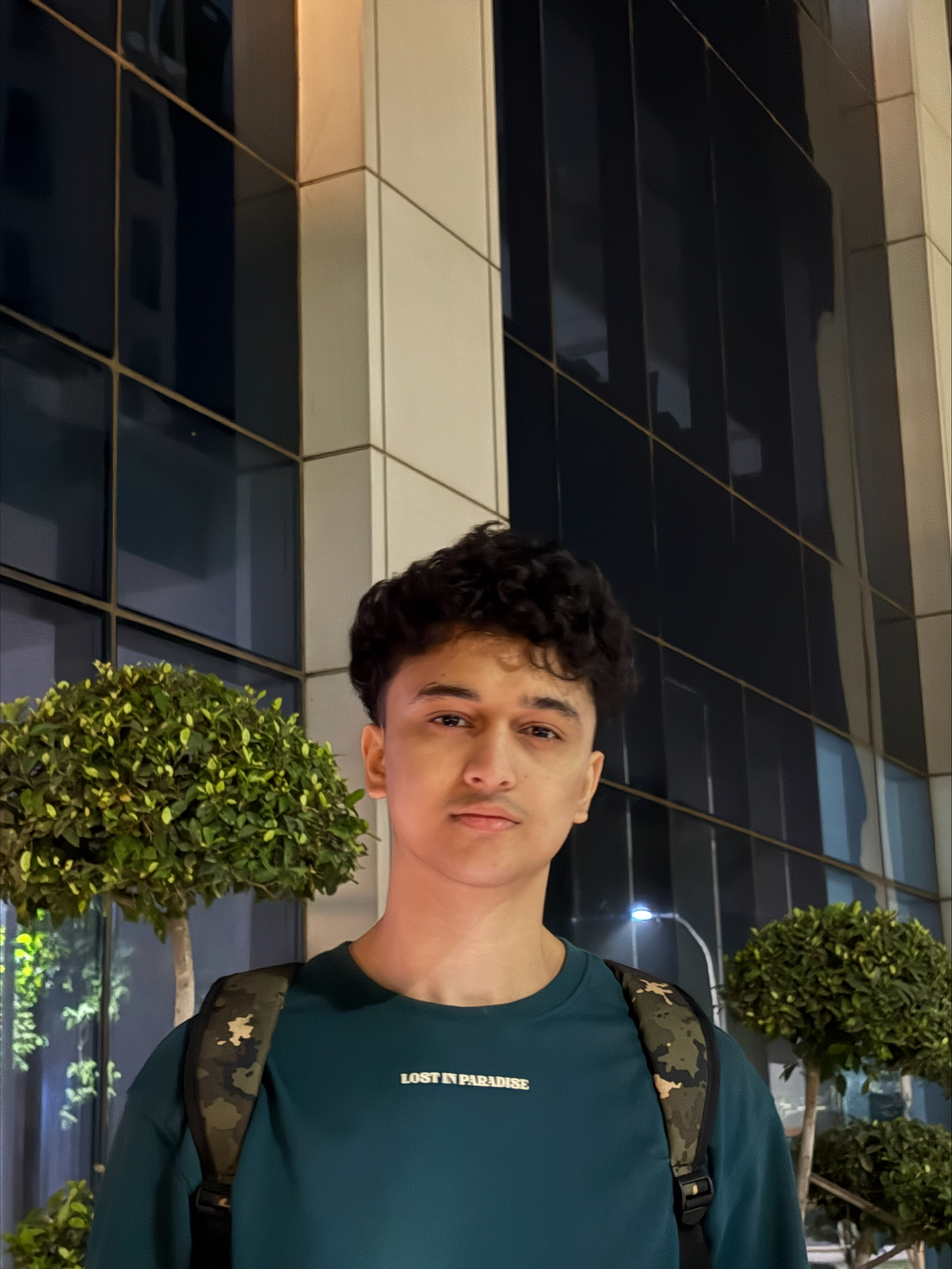
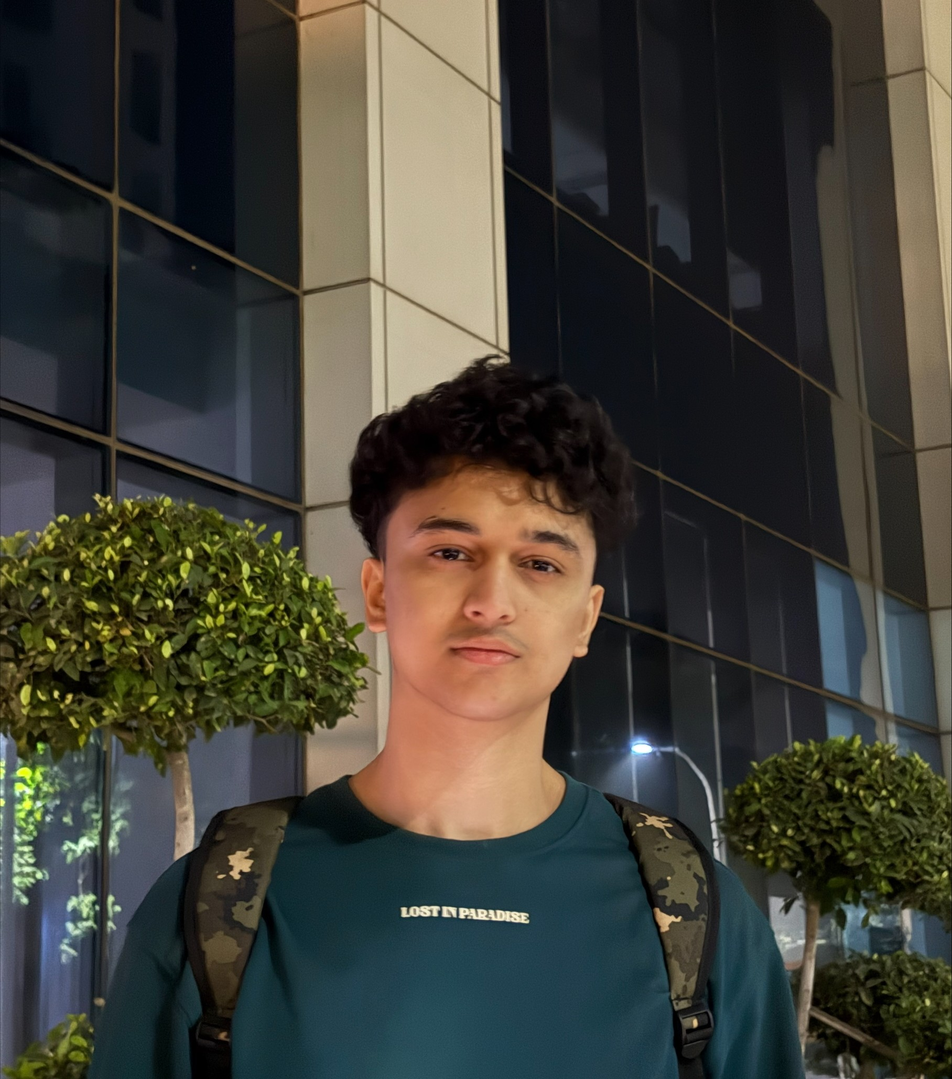
asd

diff --git a/src/App.tsx b/src/App.tsx
@@ -194,7 +194,7 @@ function App() {
           <motion.img
             src="src/components/photu.jpeg"
             alt="Profile"
-            className="w-48 h-48 rounded-full mb-12 object-cover"
+            className="w-52 h-52 rounded-full mb-12 object-cover scale-125"
             initial={{ scale: 0, opacity: 0 }}
             animate={{ scale: 1, opacity: 1 }}
             transition={{ duration: 0.8 }}
